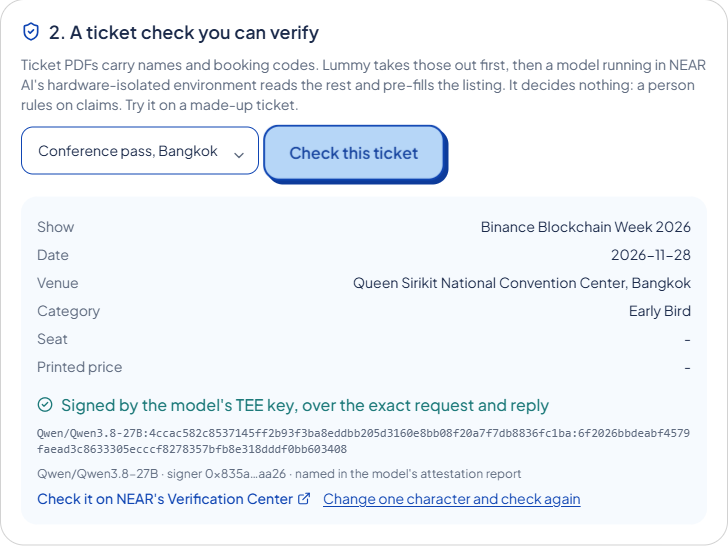
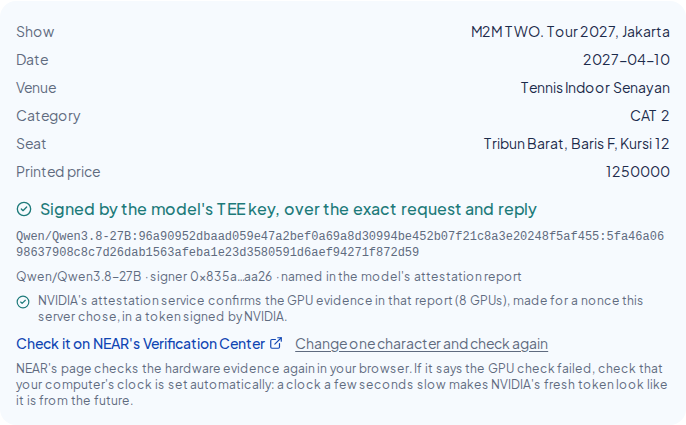
README: the two /near images as the page is now, with the wallet button and NVIDIA's verdict

Changed region(s): [[0.0, 0.4588, 0.9796, 0.9788], [0.0, 0.0306, 0.9796, 0.4282], [0.0, 0.3976, 0.1531, 0.4282]]

diff --git a/README.md b/README.md
@@ -124,7 +124,7 @@ flowchart LR
 
 <table>
 <tr>
-<td width="50%"><img src="assets/near-tee.png" alt="A made-up ticket read in NEAR AI's TEE, with its signed receipt"><br><b>On lummy.id/near.</b> A made-up ticket read in the TEE in a few seconds, signed by the model's key, which is named in its attestation report.</td>
+<td width="50%"><img src="assets/near-tee.png" alt="A made-up ticket read in NEAR AI's TEE, with its signed receipt"><br><b>On lummy.id/near.</b> A made-up ticket read in the TEE in a few seconds, signed by the model's key, which is named in its attestation report, with NVIDIA's attestation service confirming the GPU evidence for a nonce our server chose.</td>
 <td width="50%"><img src="assets/near-verify.png" alt="NEAR's Verification Center: the response verified, and the hardware verified (NVIDIA GPU and Intel TDX)"><br><b>On NEAR's own page.</b> The same kind of receipt: the signature verified, and the hardware evidence (NVIDIA GPU, Intel TDX) verified in the browser.</td>
 </tr>
 </table>
